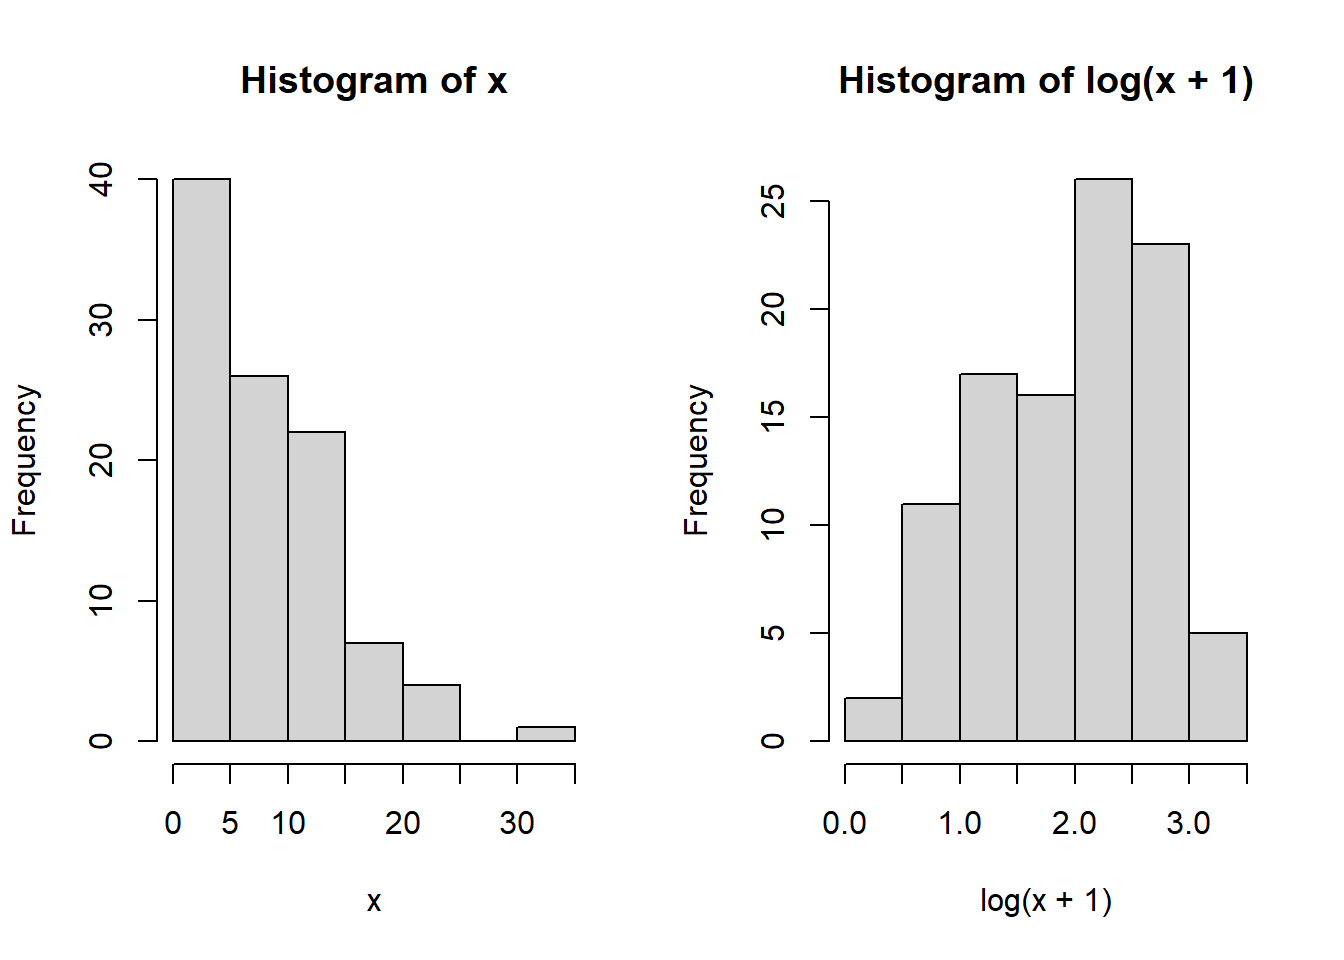
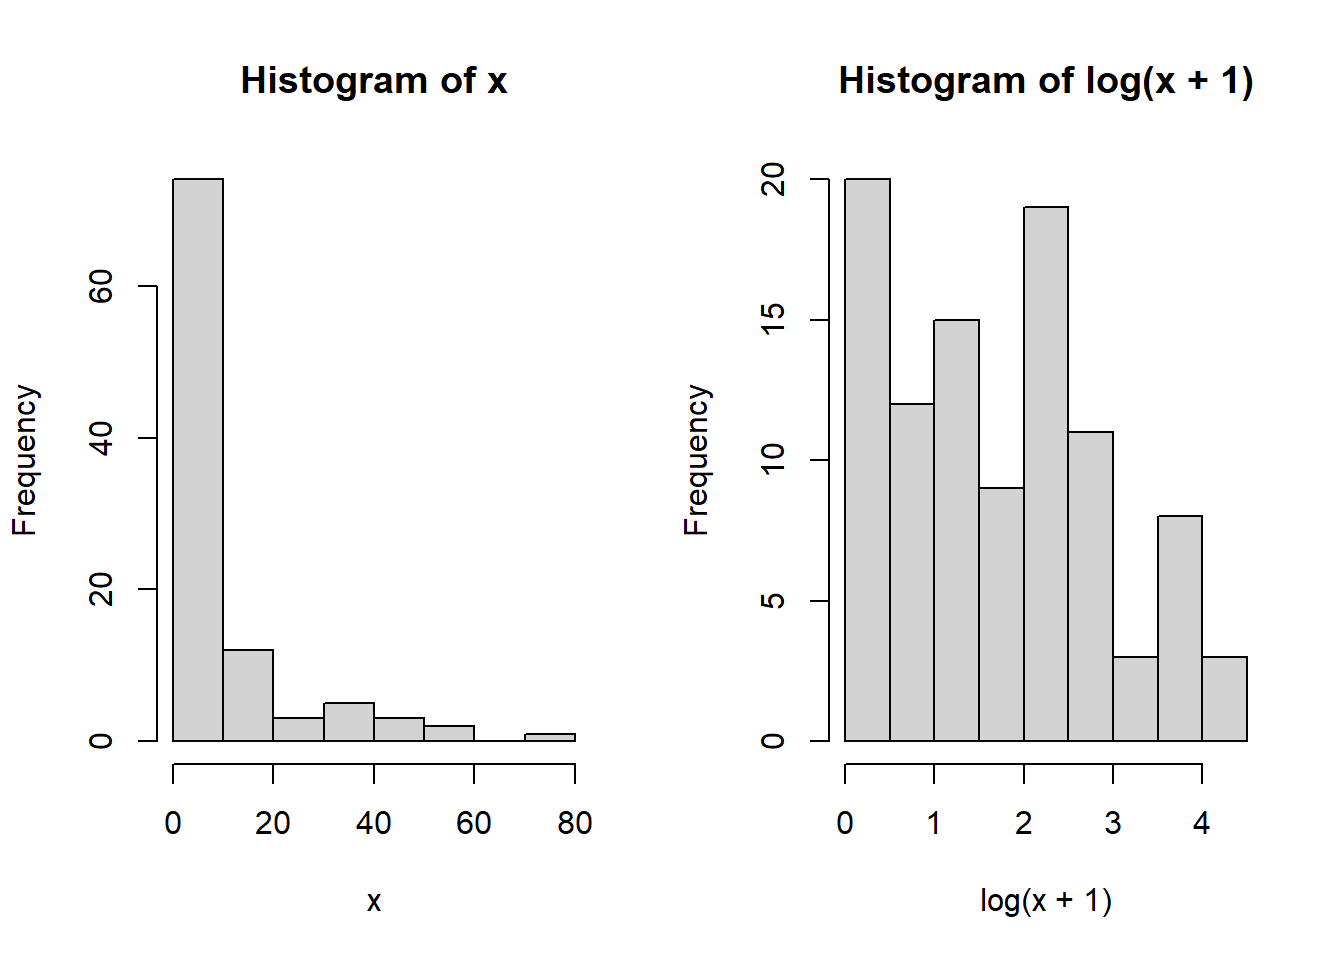
no message

diff --git a/HW_1.html b/HW_1.html
@@ -61,7 +61,7 @@ ul.task-list{list-style: none;}
 <p><img src="HW_1_files/figure-html/unnamed-chunk-1-1.png" class="img-fluid" width="672"></p>
 </div>
 </div>
-<p>We sample random variables with given mean and dispersion. Afterwards we calculate mean, which is 8.27 and variance, which is 39.6738384</p>
+<p>We sample random variables with given mean and dispersion. Afterwards we calculate mean, which is 10.01 and variance, which is 208.1312121</p>
 </section>
 
 </main>
